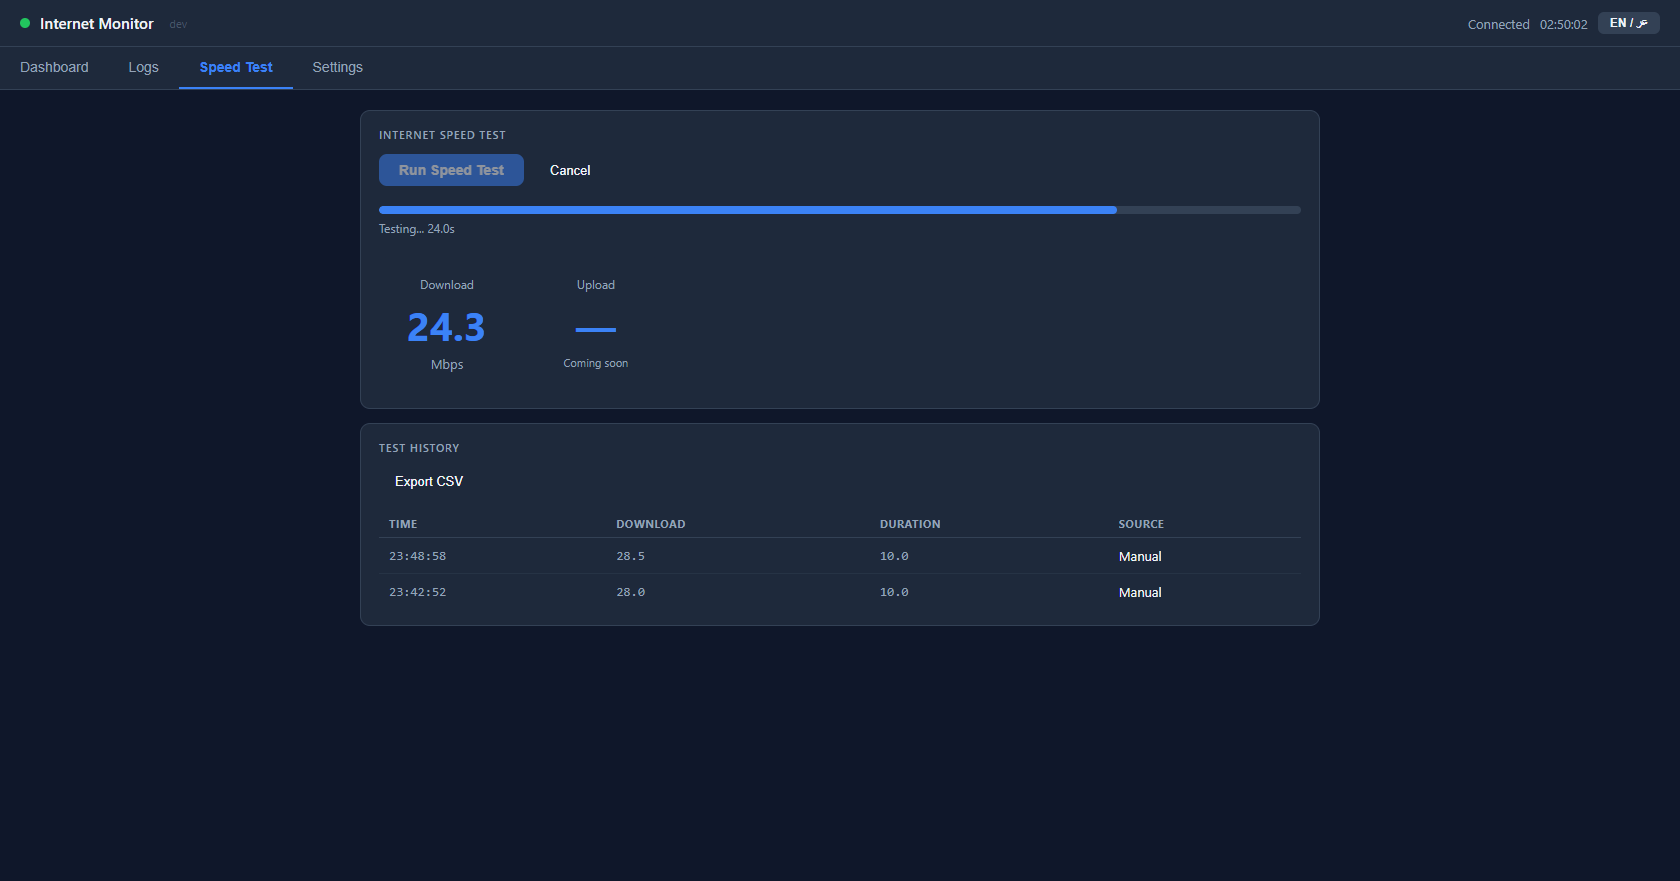
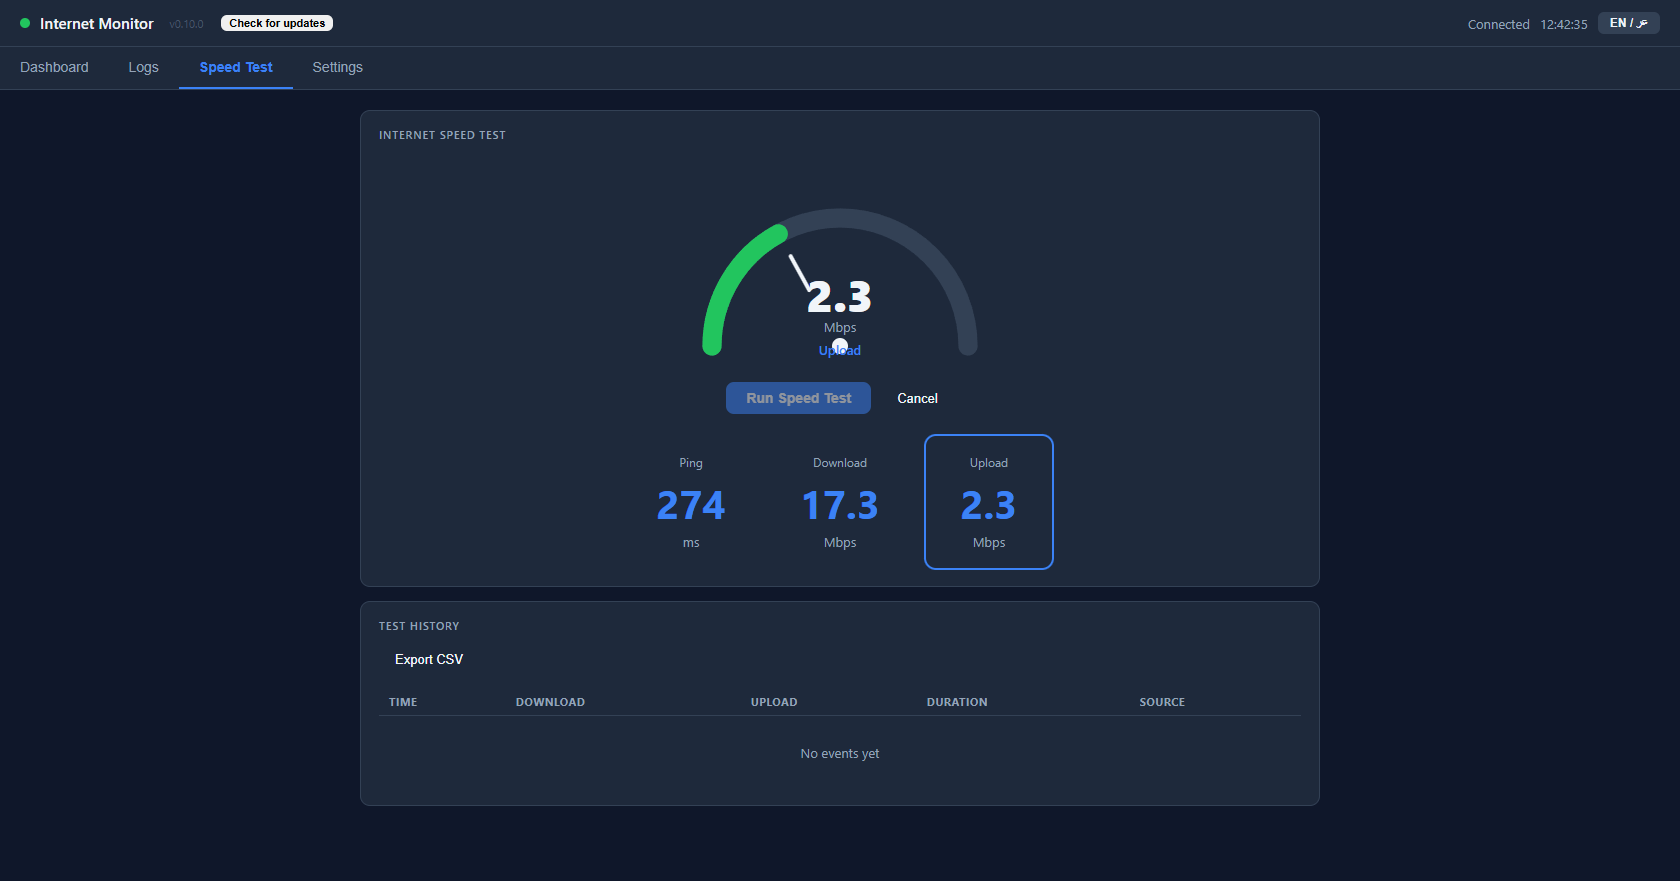
docs: refresh README/CHANGELOG for shipped features + new gauge screenshots
- README (EN + AR): move Upload speed, Telegram, scheduled speed tests
  and the PDF report from "planned/proposed" to Done; add the manual
  "Check for updates" button and the speedtest.net-style gauge.
- Fix stale facts: timeout_seconds default 10 → 30, document
  upload_target / schedule_minutes, upload_mbps example no longer null,
  drop Telegram from "areas looking for help" (it shipped).
- Add CHANGELOG.md (Keep a Changelog) covering 0.8.1 → 0.10.0.
- Replace the May-12 speed-test screenshots with the new circular-gauge
  UI (download + upload + result cards), captured from a real run.

diff --git a/CHANGELOG.md b/CHANGELOG.md
@@ -1,0 +1,72 @@
+# Changelog
+
+All notable changes to this project are documented here.
+
+The format is based on [Keep a Changelog](https://keepachangelog.com/en/1.1.0/),
+and this project adheres to [Semantic Versioning](https://semver.org/spec/v2.0.0.html).
+
+GitHub release notes for each tag are auto-generated from commits; this file is
+the curated, human-readable summary.
+
+## [0.10.0] - 2026-06-01
+
+### Added
+- **Manual "Check for updates" button** in the dashboard header — forces a fresh
+  GitHub Releases check on demand instead of waiting for the background poll
+  (`POST /api/update/check`).
+
+### Changed
+- **CI now mints a version tag and release only when every build passes.** The
+  version job computes the next semver as a dry run; the tag and GitHub release
+  are created by the release job, which is skipped if any platform build fails.
+  A failing push no longer burns a version number.
+
+### Fixed
+- Workflow file failed to parse (an unquoted `:` in a step name) — every CI run
+  failed at startup with no jobs.
+- `gofmt`, cross-platform `tray.Logf` / `sound.Logf` declarations, and unused
+  non-Windows tray stubs that broke the Linux `vet` / `golangci-lint` gates.
+
+## [0.9.4] - 2026-06-01
+
+The headline release that landed the Phase 0 + Phase 2 roadmap (PR #2).
+
+### Added
+- **Monthly outage report (PDF)** for ISP disputes — month picker, charts,
+  chronological event log, per-layer cause breakdown. Neutral by default with an
+  opt-in branding footer; handles outages that cross a month boundary. (Closes #3)
+- **Upload speed test** with live progress, alongside download and ping.
+- **speedtest.net-style circular gauge** — animated needle + arc across the
+  ping → download → upload phases, with result cards.
+- **Scheduled automatic speed tests** (`speed_test.schedule_minutes`).
+- **Telegram notifications** (in addition to Discord / Slack).
+- **Localized OS notifications** driven by `config.language` — no more mixed AR/EN.
+- Per-target concurrent probing, DNS-vs-HTTP-vs-outage failure classification,
+  LAN/ISP diagnosis, optional ICMP ping, latency jitter, and a Prometheus
+  `/metrics` endpoint.
+- Availability widget, copy-summary, and date-range CSV export.
+- Self-update verifies the downloaded binary against the release `SHA256SUMS`.
+
+### Changed
+- Live config hot-reload from the dashboard (targets / thresholds / interval /
+  webhook) without a restart.
+- Unified ringtone playback through a single native backend — the previous sound
+  is always stopped first, so test / preview / real-alert chimes never overlap.
+- Config is sanitized on load and save; `check_interval_sec=0` can no longer
+  panic the ticker.
+- README leads with the ISP-dispute use case (EN + AR/RTL).
+
+### Fixed
+- Graceful HTTP shutdown; dashboard `ListenAndServe` errors are logged, not
+  swallowed.
+- CSRF guard, panic recovery, and request-body size limits on the local API.
+
+## [0.8.1] - 2026-05-12
+
+Last release before the 0.9.x → 0.10.0 feature wave. Earlier tags
+(0.0.1 – 0.8.1) predate this changelog; see the GitHub Releases page for their
+auto-generated notes.
+
+[0.10.0]: https://github.com/FutureSolutionDev/internet-monitor/releases/tag/v0.10.0
+[0.9.4]: https://github.com/FutureSolutionDev/internet-monitor/releases/tag/v0.9.4
+[0.8.1]: https://github.com/FutureSolutionDev/internet-monitor/releases/tag/v0.8.1

diff --git a/README.ar.md b/README.ar.md
@@ -65,11 +65,11 @@
 | ------ | --------- |
 | 🔍 **فحص متعدد الطبقات** | TCP Ping + HTTP + DNS في آنٍ واحد — جميع العناوين قابلة للتخصيص كمصفوفات |
 | 📊 **لوحة تحكم حية** | مخطط زمن الاستجابة + الإحصاءات + سجل الأحداث + جدول آخر الفحوصات |
-| ⚡ **قياس السرعة** | قياس تنزيل تكيّفي عبر Cloudflare مع تخصيص الاتصالات المتوازية والمدة |
-| 🔔 **إشعارات فورية** | Windows Toast + Discord/Slack Webhook + صوت تنبيه مخصص |
+| ⚡ **قياس السرعة** | قياس تنزيل **ورفع** عبر Cloudflare بعدّاد دائري على طراز speedtest.net، مع تخصيص الاتصالات المتوازية والمدة و**قياسات تلقائية مجدولة** اختيارية |
+| 🔔 **إشعارات فورية** | Windows Toast + Discord / Slack / **Telegram** + صوت تنبيه مخصص، بلغة المستخدم المختارة |
 | 📋 **سجلات منظّمة** | ملفات JSONL يومية — أحداث الاتصال في `connectivity_DATE.jsonl`، قياسات السرعة في `speedtest_DATE.jsonl` |
 | 📤 **تصدير CSV** | تصدير سجلات الاتصال وتاريخ قياسات السرعة من لوحة التحكم مباشرةً |
-| 🔄 **تحديث تلقائي** | يفحص GitHub Releases ويُحدّث بنقرة واحدة مع إعادة تشغيل تلقائية |
+| 🔄 **تحديث تلقائي** | يفحص GitHub Releases (خلفياً + زر **"فحص التحديثات"** يدوي) ويُحدّث بنقرة واحدة مع إعادة تشغيل تلقائية |
 | 🌐 **واجهة ثنائية اللغة** | العربية والإنجليزية مع دعم كامل RTL، قابلة للتبديل في أي وقت |
 | 🖥️ **وضعان للتشغيل** | System Tray (خلفية) + نافذة مستقلة نيتيف |
 | 🔒 **نسخة واحدة فقط** | يمنع تشغيل أكثر من نسخة في آنٍ واحد |
@@ -222,7 +222,9 @@ Linux         →  ubuntu-22.04 (WebKitGTK 4.0)
   "speed_test": {
     "download_targets": ["https://speed.cloudflare.com/__down"],
     "parallel_connections": 4,
-    "timeout_seconds": 10,
+    "timeout_seconds": 30,
+    "upload_target": "https://speed.cloudflare.com/__up",
+    "schedule_minutes": 0,
     "alert_threshold_mbps": 0
   }
 }
@@ -236,7 +238,9 @@ Linux         →  ubuntu-22.04 (WebKitGTK 4.0)
 | `fail_threshold` | عدد الفشل المتتالي قبل إعلان الانقطاع |
 | `webhook_url` | رابط Discord أو Slack (اتركه فارغاً لتعطيله) |
 | `speed_test.parallel_connections` | اتصالات متوازية في اختبار التنزيل (1–8، افتراضي 4) |
-| `speed_test.timeout_seconds` | مدة اختبار التنزيل بالثواني (افتراضي 10) |
+| `speed_test.timeout_seconds` | مدة اختبار التنزيل بالثواني (افتراضي 30) |
+| `speed_test.upload_target` | نقطة POST لاختبار الرفع (افتراضي Cloudflare `__up`؛ فارغ = تعطيل الرفع) |
+| `speed_test.schedule_minutes` | تشغيل قياس سرعة تلقائي كل N دقيقة (0 = معطّل) |
 | `speed_test.alert_threshold_mbps` | أرسل Webhook إذا انخفضت السرعة عن هذا الحد (0 = معطّل) |
 
 ---
@@ -292,11 +296,13 @@ Linux         →  ubuntu-22.04 (WebKitGTK 4.0)
 
 ## ⚡ قياس السرعة
 
-يستخدم الاختبار المدمج نهج **التنزيل التكيّفي عبر HTTP**:
+يستخدم الاختبار المدمج نهج **التنزيل والرفع التكيّفي عبر HTTP**، ويُعرَض حياً على **عدّاد دائري على طراز speedtest.net**:
 
+- يقيس ping ثم **التنزيل** ثم **الرفع** — والعدّاد يتحرك خلال كل مرحلة
 - يبدأ بـ payloads صغيرة ويزيد حجمها تدريجياً خلال المدة المُحدَّدة
 - يفتح عدة اتصالات متوازية (افتراضي: 4) لاستيعاب الروابط السريعة
 - يستخدم **endpoint Cloudflare** (`speed.cloudflare.com`) افتراضياً — لا يحتاج حساباً
+- **قياسات تلقائية مجدولة** اختيارية (`speed_test.schedule_minutes`) تبني تاريخ throughput دون تدخّل
 - تُحفظ النتائج في `logs/speedtest_DATE.jsonl` (منفصلة عن سجلات الاتصال)
 - التاريخ قابل للعرض والتصدير كـ CSV مباشرةً من لوحة التحكم
 
@@ -370,7 +376,7 @@ logs/
   "timestamp": "2026-05-11T14:35:00Z",
   "event": "speed_test",
   "download_mbps": 94.3,
-  "upload_mbps": null,
+  "upload_mbps": 18.7,
   "latency_ms": 12,
   "duration_seconds": 9.8,
   "endpoints": ["https://speed.cloudflare.com/__down"],
@@ -419,7 +425,6 @@ git checkout -b feature/اسم-الميزة
 ### مجالات تحتاج مساعدة
 
 - دعم بناء Windows ARM64
-- تكامل Telegram webhook
 - تحسين استجابة لوحة التحكم للموبايل
 - تكامل macOS native menu bar
 - مخططات زمن الاستجابة لكل عنوان على حدة
@@ -431,13 +436,14 @@ git checkout -b feature/اسم-الميزة
 
 | الميزة | الحالة |
 | ------ | ------ |
-| ⬆️ قياس سرعة الرفع | 🔜 v2 |
-| 📬 دعم Telegram webhook | 🔜 مخطط |
-| ⏰ جدولة قياسات السرعة تلقائياً | 🔜 مخطط |
+| ⬆️ قياس سرعة الرفع | ✅ تم |
+| 📬 دعم Telegram webhook | ✅ تم |
+| ⏰ جدولة قياسات السرعة تلقائياً | ✅ تم |
+| 📄 تصدير تقرير PDF (للشكاوى لمزوّد الخدمة) | ✅ تم |
+| 🔄 زر "فحص التحديثات" اليدوي | ✅ تم |
 | 📱 لوحة تحكم متجاوبة للموبايل | 🔜 مخطط |
 | 🪟 بناء Windows ARM64 | 🔜 مخطط |
 | 📈 تحليلات لكل مزوّد خدمة وتقارير أسبوعية | 💡 مقترح |
-| 📄 تصدير تقرير PDF (للشكاوى لمزوّد الخدمة) | 💡 مقترح |
 | 🔌 Plugin API لأنواع فحص مخصصة | 💡 مقترح |
 
 ---

diff --git a/README.md b/README.md
@@ -65,11 +65,11 @@ Most "my internet is down" complaints fail because you have **no proof** — no 
 | ------- | ------- |
 | 🔍 **Multi-layer checking** | TCP Ping + HTTP + DNS simultaneously — all targets configurable as arrays |
 | 📊 **Live dashboard** | Real-time latency chart + stats + event log + recent checks table |
-| ⚡ **Speed Test** | Adaptive download measurement (Cloudflare endpoint) with configurable parallel connections and timeout |
-| 🔔 **Instant notifications** | Windows Toast + Discord/Slack Webhook + custom alert sound |
+| ⚡ **Speed Test** | Download **and upload** measurement (Cloudflare endpoint) with a speedtest.net-style circular gauge, configurable parallel connections/timeout, and optional **scheduled automatic tests** |
+| 🔔 **Instant notifications** | Windows Toast + Discord / Slack / **Telegram** + custom alert sound, localized to your chosen language |
 | 📋 **Structured logs** | Daily JSONL files — connectivity events in `connectivity_DATE.jsonl`, speed tests in `speedtest_DATE.jsonl` |
 | 📤 **CSV export** | Export connectivity logs and speed test history directly from the dashboard |
-| 🔄 **Auto-update** | Checks GitHub Releases, one-click update with automatic restart |
+| 🔄 **Auto-update** | Checks GitHub Releases (background + a manual **"Check for updates"** button), one-click update with automatic restart |
 | 🌐 **Bilingual UI** | Arabic & English with full RTL support, toggle anytime |
 | 🖥️ **Two modes** | System Tray (background) + Standalone native window |
 | 🔒 **Single instance** | Prevents running more than one copy at the same time |
@@ -222,7 +222,9 @@ Edit it directly or use the **Settings tab** in the dashboard.
   "speed_test": {
     "download_targets": ["https://speed.cloudflare.com/__down"],
     "parallel_connections": 4,
-    "timeout_seconds": 10,
+    "timeout_seconds": 30,
+    "upload_target": "https://speed.cloudflare.com/__up",
+    "schedule_minutes": 0,
     "alert_threshold_mbps": 0
   }
 }
@@ -236,7 +238,9 @@ Edit it directly or use the **Settings tab** in the dashboard.
 | `fail_threshold` | Consecutive failures before declaring disconnected |
 | `webhook_url` | Discord or Slack webhook URL (leave empty to disable) |
 | `speed_test.parallel_connections` | Parallel HTTP connections for download test (1–8, default 4) |
-| `speed_test.timeout_seconds` | Download test duration in seconds (default 10) |
+| `speed_test.timeout_seconds` | Download test duration in seconds (default 30) |
+| `speed_test.upload_target` | POST endpoint for the upload test (default Cloudflare `__up`; empty disables upload) |
+| `speed_test.schedule_minutes` | Run an automatic speed test every N minutes (0 = disabled) |
 | `speed_test.alert_threshold_mbps` | Send webhook if speed drops below this value (0 = disabled) |
 
 ---
@@ -292,11 +296,13 @@ Internet Monitor sends webhook notifications for three event types:
 
 ## ⚡ Speed Test
 
-The built-in speed test uses an **adaptive HTTP download** approach:
+The built-in speed test uses an **adaptive HTTP download + upload** approach, shown live on a **speedtest.net-style circular gauge**:
 
+- Measures ping, then **download**, then **upload** — the gauge animates through each phase
 - Starts with small payloads and increases chunk size over the configured duration
 - Opens multiple parallel connections (default: 4) to saturate modern high-speed links
 - Uses **Cloudflare's speed endpoint** (`speed.cloudflare.com`) by default — no account required
+- Optional **scheduled automatic tests** (`speed_test.schedule_minutes`) build a throughput history unattended
 - Results are stored in `logs/speedtest_DATE.jsonl` (separate from connectivity logs)
 - History is viewable and exportable as CSV directly from the dashboard
 
@@ -370,7 +376,7 @@ logs/
   "timestamp": "2026-05-11T14:35:00Z",
   "event": "speed_test",
   "download_mbps": 94.3,
-  "upload_mbps": null,
+  "upload_mbps": 18.7,
   "latency_ms": 12,
   "duration_seconds": 9.8,
   "endpoints": ["https://speed.cloudflare.com/__down"],
@@ -419,7 +425,6 @@ We use [Conventional Commits](https://www.conventionalcommits.org/) — commit t
 ### Areas looking for help
 
 - Windows ARM64 build support
-- Telegram webhook integration
 - Mobile-responsive dashboard improvements
 - macOS native menu bar integration
 - Per-target latency history charts
@@ -431,13 +436,14 @@ We use [Conventional Commits](https://www.conventionalcommits.org/) — commit t
 
 | Feature | Status |
 | ------- | ------ |
-| ⬆️ Upload speed measurement | 🔜 v2 |
-| 📬 Telegram webhook support | 🔜 Planned |
-| ⏰ Scheduled speed tests | 🔜 Planned |
+| ⬆️ Upload speed measurement | ✅ Done |
+| 📬 Telegram webhook support | ✅ Done |
+| ⏰ Scheduled speed tests | ✅ Done |
+| 📄 PDF report export (for ISP complaints) | ✅ Done |
+| 🔄 Manual "Check for updates" button | ✅ Done |
 | 📱 Mobile-responsive dashboard | 🔜 Planned |
 | 🪟 Windows ARM64 build | 🔜 Planned |
 | 📈 Per-ISP analytics & weekly reports | 💡 Proposed |
-| 📄 PDF report export (for ISP complaints) | 💡 Proposed |
 | 🔌 Plugin API for custom check types | 💡 Proposed |
 
 ---